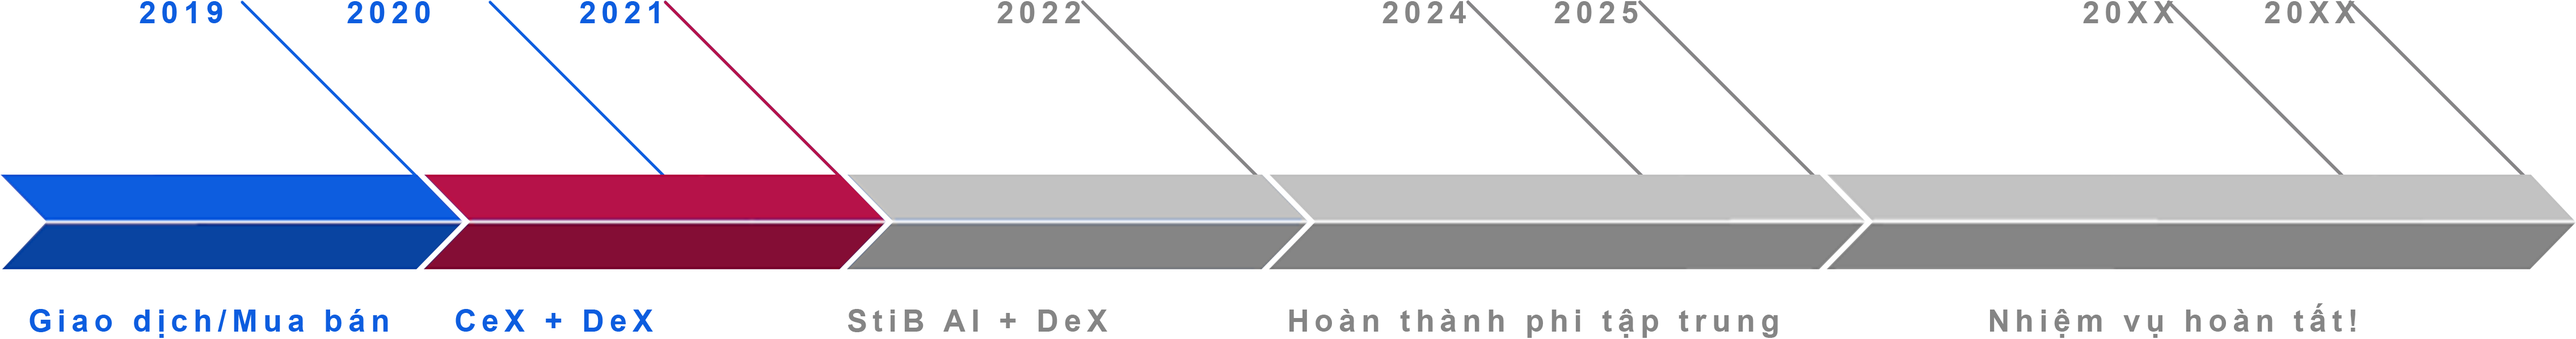
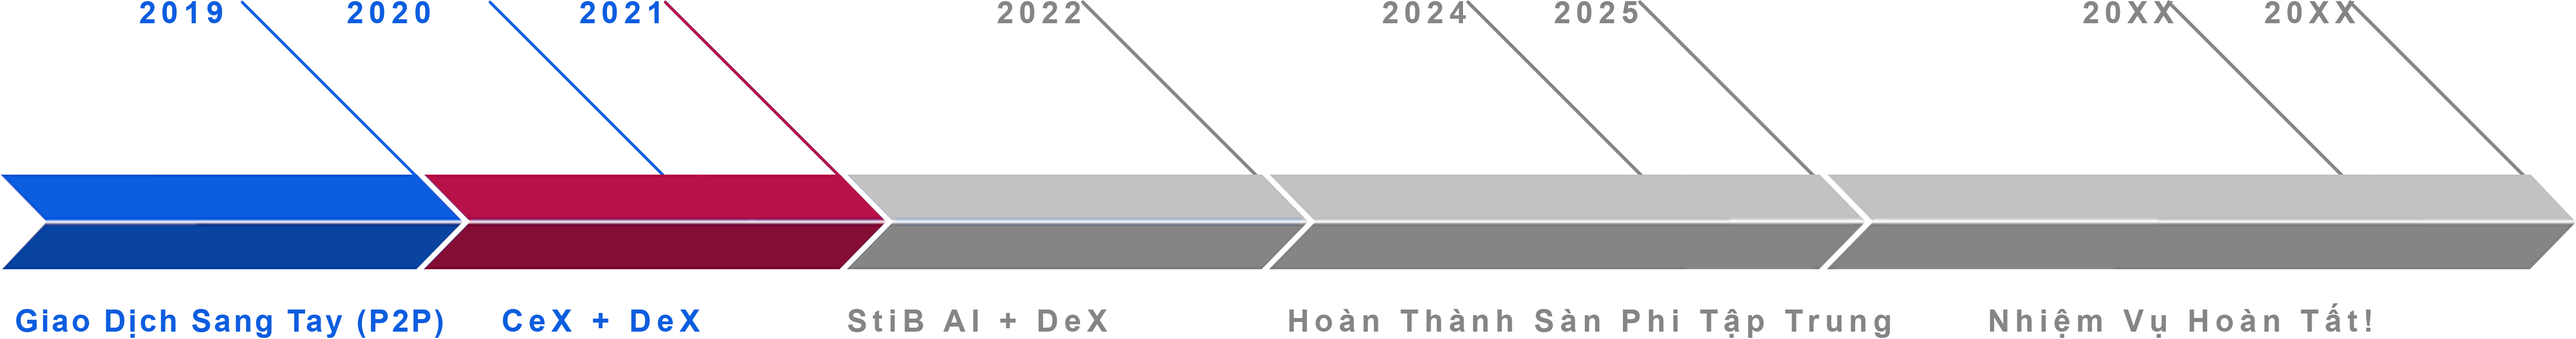
text change

Changed region(s): [[0.0, 0.903, 0.2795, 0.9933], [0.5279, 0.903, 0.7452, 0.9933], [0.8073, 0.903, 0.9315, 0.9933]]

diff --git a/vendor/js/lang.js b/vendor/js/lang.js
@@ -180,11 +180,12 @@ $(document).ready(function () {
             "title22": "Public sale Date:",
             "text22": " Date - October 15",
             "title23": "Primary Exchange Listing:",
-            "text23": " Date - Listing on TBD",
+            "text23": " Date - January 15, 2020 (tentative)",
             "title24": "Initial Circulating Supply:",
             "text24": " 3.7% of total Supply",
 
-            "invest": "INVEST NOW"
+            "invest": "INVEST NOW",
+            "link": "https://docs.google.com/forms/d/e/1FAIpQLSe2eiS61bGtIT5fuPQZoamsMti3pdAAcTUX1NxEJT6h089ehQ/viewform"
         },
         // intro [3]
         {
@@ -273,7 +274,7 @@ $(document).ready(function () {
         // banner [0]
         {
             "title": 'HƯỚNG ĐI CỦA StiB',
-            "description": "We focus on positive side of things!",
+            "description": "Chúng tôi hướng đến những điều tích cực!",
             "tooltip": "Xem ảnh lớn",
             "imgSrc": "images/philosophy-vn.png",
             "imgSrcMobile": "images/philosophy_mobile-vn.png"
@@ -283,15 +284,15 @@ $(document).ready(function () {
             "title1": "StiB TOKENS",
             "title2": "KẾ HOẠCH AIRDROP",
             "title3": "LỘ TRÌNH",
-            "title4": "THÀNH VIÊN",
+            "title4": "ĐỘI NGŨ",
             "title5": "ĐIỂM KHÁC BIỆT",
             "title6": "LIÊN HỆ"
         },
         // tokens [2]
         {
-            "description": "'sti' là tên của Token trong hệ sinh thái của StiB và người giữ token sẽ có quyền lợi trong nghiên cứu, dịch vụ và các sản phẩm trong tương lai.",
+            "description": "'Sti' là tên của Token trong hệ sinh thái của StiB và người giữ token sẽ có quyền lợi trong nghiên cứu, dịch vụ và các sản phẩm trong tương lai.",
 
-            "text1": "Tên Token: sti",
+            "text1": "Tên Token: Sti",
             "text2": "Loại Token: ERC-20",
             "text3": "Tổng Token: 8,000,000,000 STIs",
             "text4": "Vốn huy động: $5,480,000",
@@ -303,11 +304,12 @@ $(document).ready(function () {
             "title22": "Ngày bán ra:",
             "text22": " Date - Ngày 15 tháng 10",
             "title23": "Ngày lên sàn giao dịch:",
-            "text23": " Chưa có",
+            "text23": "15/01/2020 (dự kiến)",
             "title24": "Số lượng trả ban đầu:",
             "text24": " 3.7% trên tổng vốn đầu tư",
 
-            "invest": "ĐẦU TƯ NGAY"
+            "invest": "ĐẦU TƯ NGAY",
+            "link": "https://docs.google.com/forms/d/e/1FAIpQLSezsmT_B6xgfGE626N7HkWMWx61pGRrRcDOPra6DJ2IkRjCtA/viewform"
         },
         // intro [3]
         {
@@ -316,8 +318,8 @@ $(document).ready(function () {
             "ques3": "LỢI NHUẬN StiB?",
 
             "ans1": "We decentralize and leave no one behind!",
-            "ans2": "Sử dụng hàng đợi thông minh nên người giữ token có thể đầu tư thay vì xổ sổ hoặc chơi trò chơi để trở thành người hoặc bot nhanh nhất.",
-            "ans3": "Với quỹ dự trữ StiB Reserves, khách hàng có thể giao dịch hoặc vay mượn ngay với công ty nhanh chóng bằng tiền mặt hoặc tiền điện tử."
+            "ans2": "Sử dụng nhiều phương pháp thông minh hơn, chủ sở hữu StiB Tokens đều có cơ hội đầu tư thay vì bị quyết định theo phương thức quay số truyền thống hoặc phải tham gia vào trò chơi may rủi mà người thắng cuộc là người nhanh tay nhất.",
+            "ans3": "Với quỹ dự trữ StiB Reserves, khách hàng có thể giao dịch (mua bán/cho vay, mượn) với công ty nhanh chóng bằng tiền tệ hoặc tiền điện tử."
         },
         // download[4]
         {
@@ -339,8 +341,8 @@ $(document).ready(function () {
             "title": "Tầm nhìn và Hướng đi",
             "imgSrc": "images/roadmap-vn.png",
             "imgSrcMobile": "images/roadmap-vn.png",
-            "description": "Mục đích là phát triển một Hợp Đồng Thông Minh để gây dựng đà bay cho tiền điện tử cất cánh với định hướng cộng đồng.",
-            "description2": "Mục tiêu cao nhất của chúng tôi là tạo nên một công cụ/ví tiền dành cho tất cả mọi người để giao dịch, đầu tư, vay mượn, thanh toán,... với sứ mệnh mang tiền điện tử đến gần hơn với công chúng. Tất cả đều nằm trong lòng bàn tay của bạn.",
+            "description": "Mục đích là mang tiền điện tử đến mọi người.",
+            "description2": "Mục tiêu cao nhất của chúng tôi là tạo nên một hệ sinh thái mở dành cho tất cả mọi người để giao dịch, đầu tư và thanh toán,... với sứ mệnh mang tiền điện tử đến gần hơn với công chúng. Quyền tự quyết nằm trong lòng bàn tay của bạn.",
         },
         // team[7]
         {
@@ -353,7 +355,7 @@ $(document).ready(function () {
         },
         // unique[8]
         {
-            "title": "StiB DIFFERS",
+            "title": "ĐIỂM KHÁC BIỆT",
             "titleSlogan": "StiB độc đáo và khác biệt.",
             "theadTh1": "StiB có",
             "theadTh2": "StiB",
@@ -430,6 +432,7 @@ $(document).ready(function () {
         $('#tokens .grid-2 .token-utility li:nth-child(4) span:last-child').text(lang[2].text24);
 
         $('.wrapper-invest a span').text(lang[2].invest);
+        $('#invest .wrapper-invest a').attr('href', lang[2].link);
         // intro[3]
         $('.wrapper-questions li.q-li:nth-child(1) h3').text(lang[3].ques1);
         $('.wrapper-questions li.q-li:nth-child(2) h3').text(lang[3].ques2);

diff --git a/vendor/css/main.css b/vendor/css/main.css
@@ -1,4 +1,5 @@
 *{margin:0;padding:0;}
+
 .img-arrow-right{
     width: 17px;
     height: 17px;
@@ -385,7 +386,7 @@ table.table tr {
     transition: .3s;
 }
 
-table.table tr td, table.table tr th {text-align: center;border-right: 1px solid #ffffff;}
+table.table tr td, table.table tr th {text-align: center;border-right: 1px solid #ffffff;padding-left: 5px;padding-right: 5px;}
 .table-name{
 	font-weight: bold;
 }
@@ -1184,7 +1185,9 @@ ul.sub-menu a.nav-link {
 	}
 }
 @media (min-width: 769px){
-    
+    .guide-table{
+        display: none;
+    }
     .tut-slide-horizon{
         display: none;
     }
@@ -1194,7 +1197,13 @@ ul.sub-menu a.nav-link {
         margin-top: 15px;
     }
 }
+
 @media (max-width: 768px){
+    
+    .img-guide-table{
+        width: 35px;
+        /* height: 20px; */
+    }
     #download{
         height: 240px;
     }
@@ -1268,9 +1277,10 @@ ul.sub-menu a.nav-link {
         overflow-x: auto;
         overflow-y: hidden; 
         margin: 0 10px;
+        position: relative;
     }
     .wrapper-table-item{
-        width: 695px;
+        width: 760px;
         max-height: 458px;
     }
     #modalPhi, #modal{
@@ -1369,6 +1379,14 @@ ul.sub-menu a.nav-link {
         display: -webkit-box;
         display: -ms-flexbox;
         display: flex;
+        -webkit-box-align: start;
+            -ms-flex-align: start;
+                align-items: start;
+    }
+    #modal .modal-content .wrapper-img.img-funds-modal{
+        display: -webkit-box;
+        display: -ms-flexbox;
+        display: flex;
         -webkit-box-align: center;
             -ms-flex-align: center;
                 align-items: center;
@@ -1393,10 +1411,33 @@ ul.sub-menu a.nav-link {
     ul.wrapper-questions{
         width: 100%;
     }
+    
 }
 @media (max-width: 576px){
     .last-li{
         text-align: center;
+    }
+    .guide-table{
+        display: -webkit-box;
+        display: -ms-flexbox;
+        display: flex;
+        position: absolute;
+        right: 0;
+        top: 0;
+        bottom: 0;
+        width: 50px;
+        -webkit-box-align: center;
+            -ms-flex-align: center;
+                align-items: center;
+        -webkit-box-pack: center;
+            -ms-flex-pack: center;
+                justify-content: center;
+        z-index: 100;
+        -webkit-animation: leftright 1.5s infinite forwards;
+            animation: leftright 1.5s infinite forwards;
+    }
+    .guide-table.deactive{
+        display: none;
     }
     #contact .grid-1{
         -ms-grid-column: unset;
@@ -1463,6 +1504,10 @@ ul.sub-menu a.nav-link {
     }
 }
 @media (max-width: 375px){
+    .title-philosophy h1{
+        font-size: 25px;
+        margin-bottom: 20px;
+    }
     .title-roadmap h1{
         font-size: 22px;
     }

diff --git a/index.html b/index.html
@@ -68,7 +68,7 @@
 				<!-- start navbar -->
 				<nav class="navbar d-flex">
 					<div class="navbar-brand d-flex align-items-center">
-						<a href="https://stib.co/">
+						<a href="https://tokens.stib.co/">
 							<!-- <img src="images/svg/logo_stib_no_co_white_ti.svg" alt="" class="img-fluid white-logo"> -->
 							<img src="images/svg/logo_stib_no_co.svg" alt="" class="img-fluid dark-logo">
 						</a>
@@ -178,7 +178,7 @@
 											class="utility-title">Public sale Date:</span><br><span> Date - October 15</span></li>
 									<li><img src="images/svg/ethereum.svg" alt="" class="img-utility"> <span
 											class="utility-title">Primary Exchange Listing:</span><br><span> Date -
-											Listing on TBD</span></li>
+											January 15, 2020 (tentative)</span></li>
 									<li><img src="images/svg/ethereum.svg" alt="" class="img-utility"> <span
 											class="utility-title">Initial Circulating Supply:</span><br><span> 3.7% of
 											total Supply</span></li>
@@ -305,6 +305,9 @@
 									</tr>
 								</tbody>
 							</table>
+						</div>
+						<div class="guide-table">
+							<img src="images/svg/next.svg" alt="" class="img-guide-table">
 						</div>
 					</div>
 					<div class="tut-slide-horizon">
@@ -443,6 +446,9 @@
 									</tr>
 								</tbody>
 							</table>
+						</div>
+						<div class="guide-table">
+							<img src="images/svg/next.svg" alt="" class="img-guide-table">
 						</div>
 					</div>
 					<div class="tut-slide-horizon">

diff --git a/vendor/js/main.js b/vendor/js/main.js
@@ -124,4 +124,22 @@ $(document).ready(function () {
             // },
         }
     });
+    // console.log($('#airdrop .wrapper-table-item').offset().left);
+    $('#airdrop .wrapper-table').scroll(function(){
+        // console.log($('#airdrop .wrapper-table-item').offset().left);
+        if($('#airdrop .wrapper-table-item').offset().left < 0){
+            $('.guide-table').addClass('deactive');
+        }
+        else{
+            $('.guide-table').removeClass('deactive');
+        }
+    })
+    $('#unique .wrapper-table').scroll(function(){
+        if($('#unique .wrapper-table-item').offset().left < 0){
+            $('.guide-table').addClass('deactive');
+        }
+        else{
+            $('.guide-table').removeClass('deactive');
+        }
+    })
 })

diff --git a/vendor/css/animation.css b/vendor/css/animation.css
@@ -38,7 +38,17 @@
   -webkit-animation: zoomOut .5s forwards;
           animation: zoomOut .5s forwards;
 }
-
+@-webkit-keyframes leftright {
+	0% {right: -5px;}
+	50% {right: 5px;}
+	100% {right: -5px;}
+}
+  
+@keyframes leftright {
+	0% {right: -5px;}
+	50% {right: 5px;}
+	100% {right: -5px;}
+}
 @-webkit-keyframes zoomIn{
   0%{
     opacity: 0;
